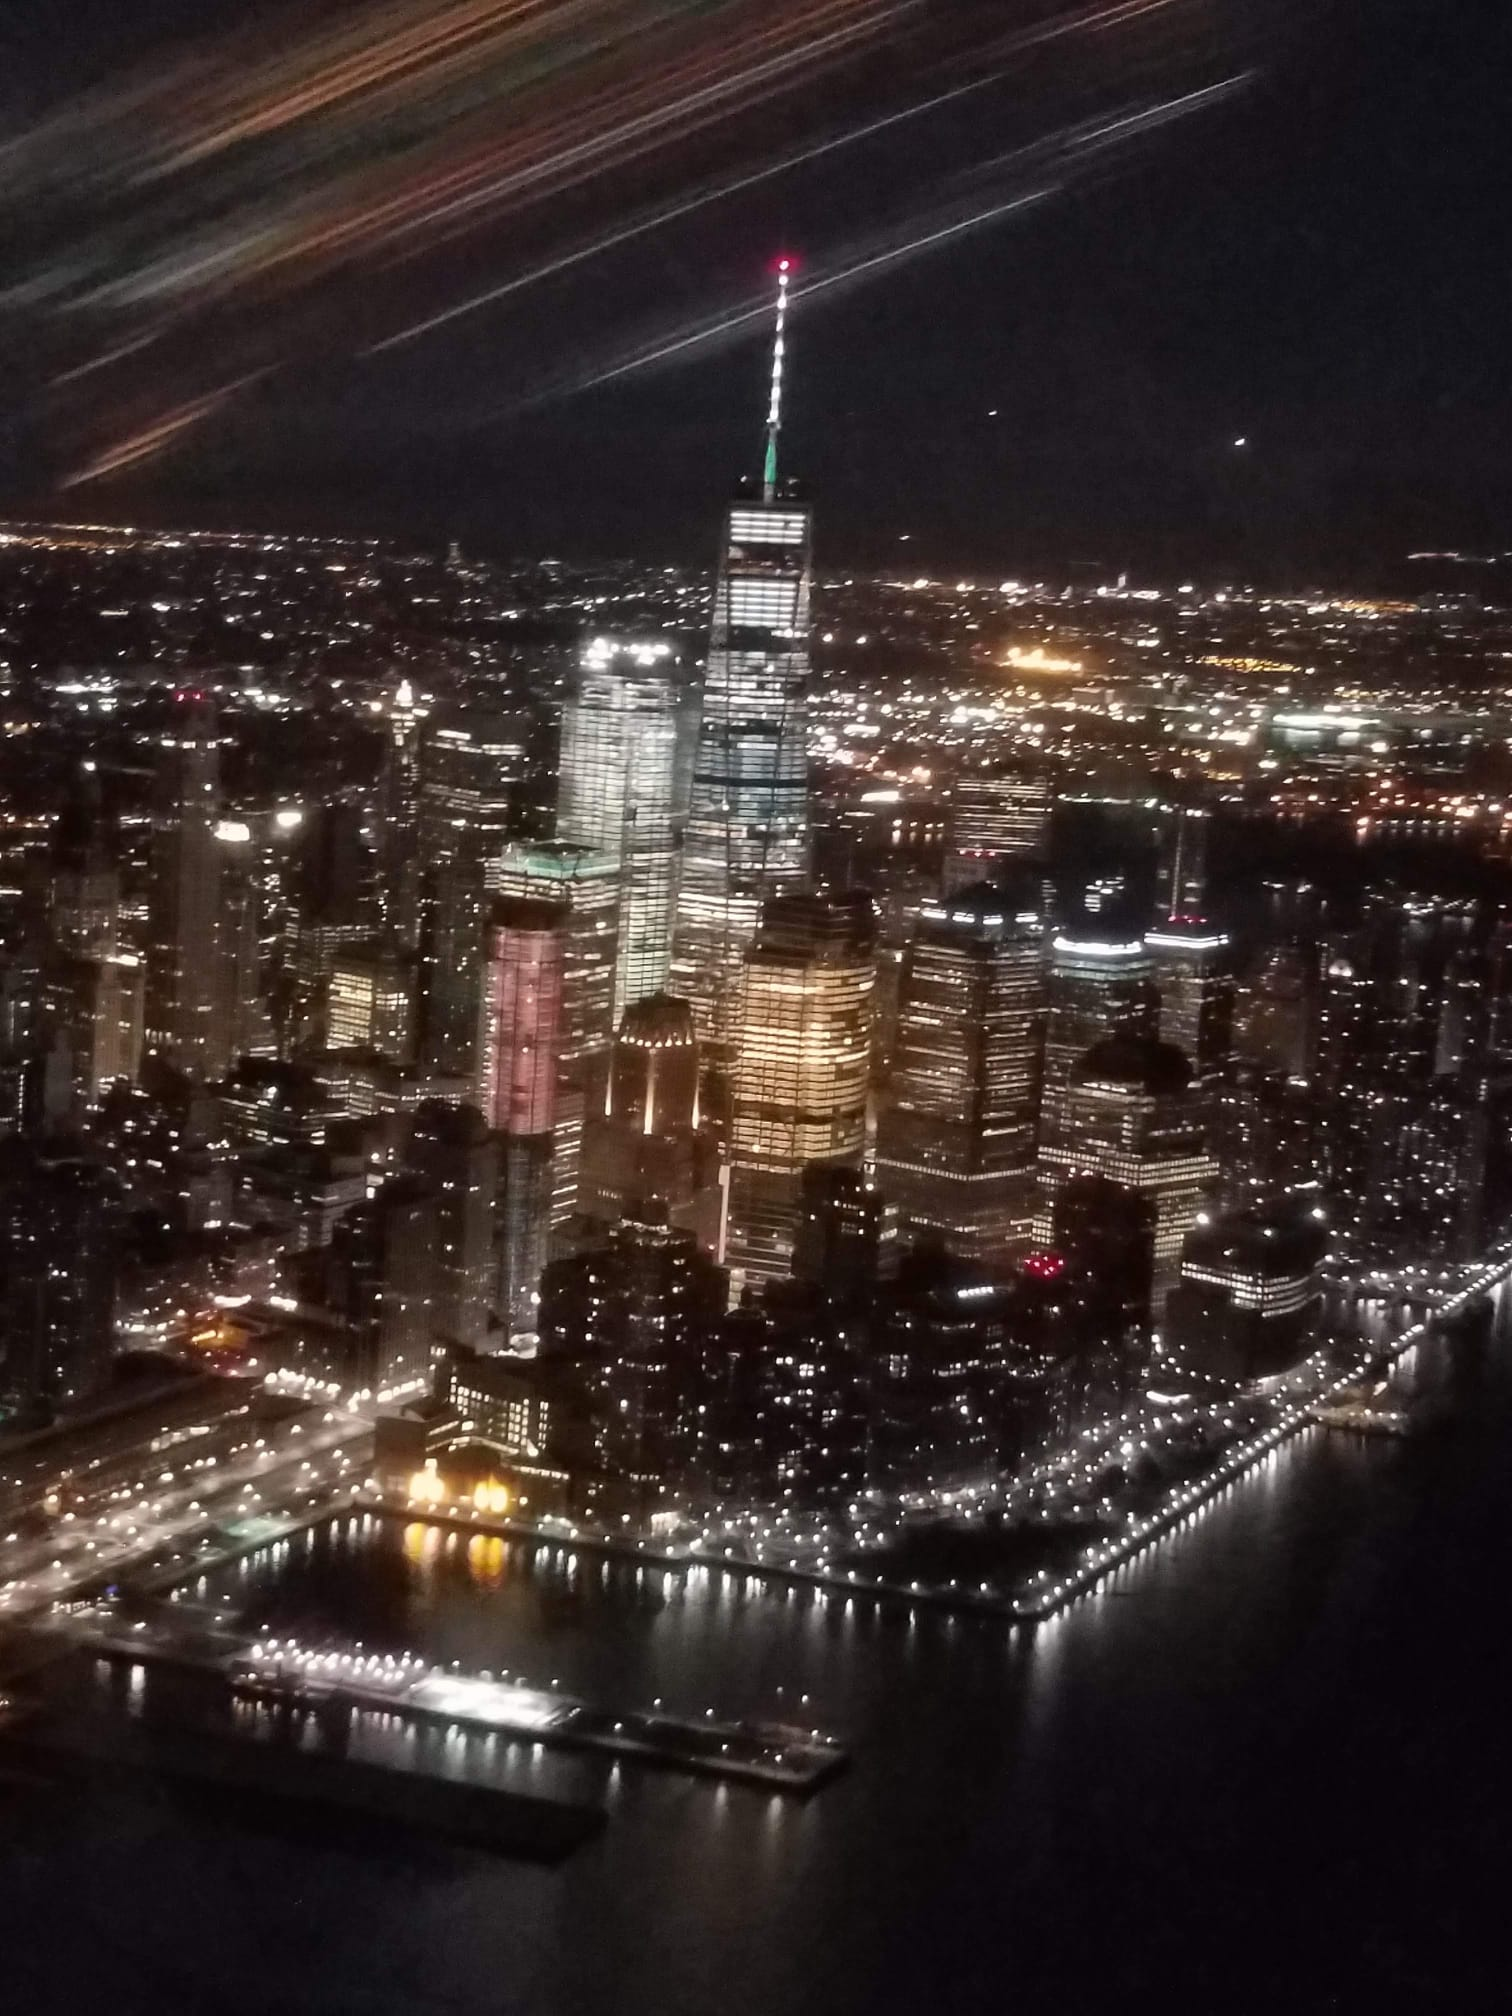
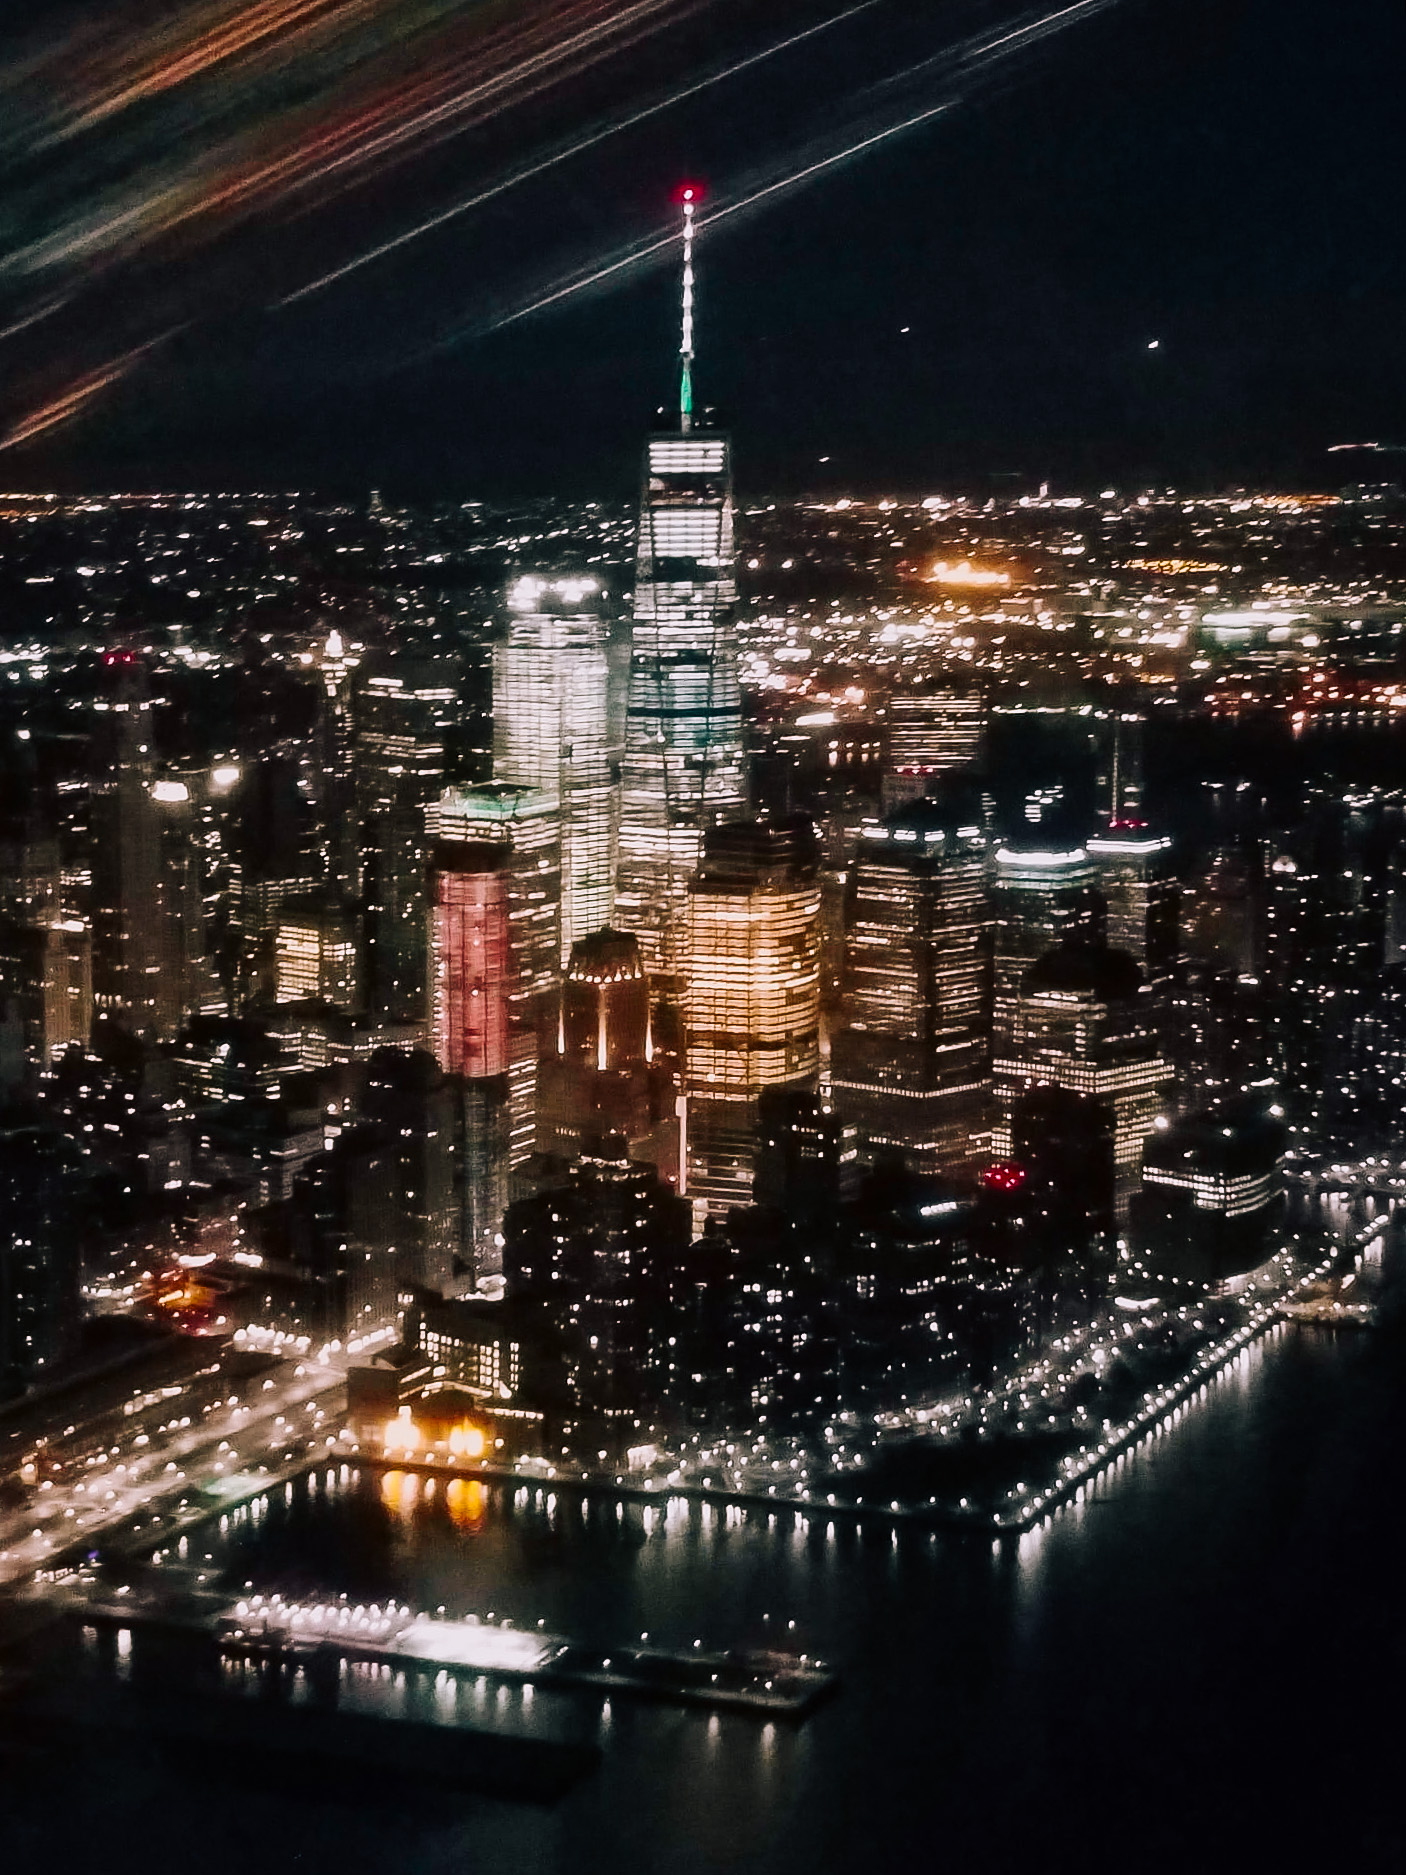
Hudson guide: Hugh's graded photos, Larry's pair back, GTN 650Xi note
- Swap in Hugh's colour-graded versions of Brian's East River and
  Statue/Ellis Island shots and Larry's night and Tribute in Light shots
- Put Larry's night pair back in the Linden section; Hugh's cockpit
  night shot moves to Back to Linden
- Traffic displays: both club aircraft have the Garmin GTN 650Xi

Claude-Session: https://claude.ai/code/session_01Ezc97P83C8gCbYEjBERZaD

diff --git a/content/guides/flying-the-hudson-river.md b/content/guides/flying-the-hudson-river.md
@@ -27,7 +27,7 @@ Complement your planning with the FAA's [New York City SFRA course](https://www.
 - **NOTAMs, TFRs and ATIS.** Check them as part of your usual planning, and check again for restrictions before departure. Presidential, VIP, sports and event TFRs are common.
 - **Weather.** Assess visibility and cloud clearance along your planned route. Haze, wind and turbulence around buildings can make the flight more demanding than the forecast suggests.
 - **Passengers and photos.** Brief passengers to keep quiet near reporting points and help spot traffic. Decide in advance who's taking pictures. It isn't the pilot.
-- **Traffic displays.** Know how to use your aircraft's traffic display before departure. It can help you spot traffic, but it won't show everything. Keep your eyes outside.
+- **Traffic displays.** Know how to use your aircraft's traffic display before departure. It can help you spot traffic, but it won't show everything. Keep your eyes outside. Both club aircraft have the Garmin GTN 650Xi.
 
 ### Rehearse the radio
 
@@ -135,7 +135,7 @@ A typical round trip takes about 1 Hobbs hour. See what that costs in a club air
 - **Beware the Bravo.** Linden sits just under the Newark Bravo, with an 800 ft lower limit. This leaves little room for an unplanned climb. Make sure your altimeter is set correctly and keep a watchful eye on it.
 - **Caution: choppers.** Linden is a base for many helicopters. Be mindful of their presence and flying characteristics.
 
-{{< photo src="lower-manhattan-night-cockpit.jpg" >}}
+{{< photos "lower-manhattan-night.jpg" "tribute-in-light.jpg" >}}
 
 ### Leaving Linden
 
@@ -191,6 +191,8 @@ If returning via the VZ, check the surrounding airspace before turning toward Li
 The [Arthur Kill power station](https://maps.app.goo.gl/c7xpPRkTCtGkXBH49) stack, on Staten Island's western shore, is a useful landmark on the way home. So are the oil storage tanks, I‑95, the Rahway River and the solar farm near Linden.
 
 The airport itself can be hard to spot, especially from lower altitudes. Before tackling the trip on your own, consider a familiarization flight with someone who knows the area, especially if you plan to return at night.
+
+{{< photo src="lower-manhattan-night-cockpit.jpg" >}}
 
 ## A member's story
 
